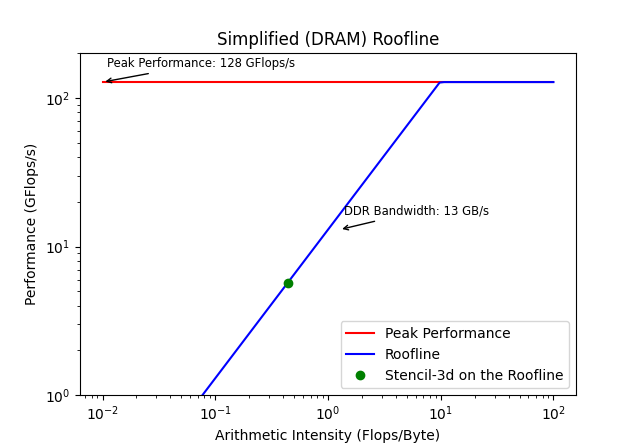
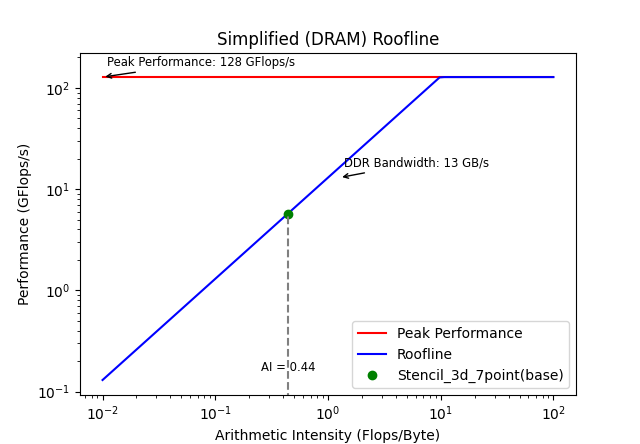
Update roofline

diff --git a/roofline/plot.py b/roofline/plot.py
@@ -16,14 +16,14 @@ roofline = np.minimum(ai * bw, peak_perf)
 # Define Performance bound
 perf_bound = np.ones_like(ai) * peak_perf
 
-# Plot the roofline
+# Plot the roofline and peak performance bound
 plt.plot(ai, perf_bound, label='Peak Performance', color='red')
 plt.plot(ai, roofline, label='Roofline', color='blue')
 
 # Mark the point in the roofline with AI = 0.44
-ai_p = 0.44
-perf = min(ai_p * bw, peak_perf)
-plt.plot(ai_p, perf, 'ro', label='Stencil-3d on the Roofline', color='green')
+ai_stencil = 0.44
+perf = min(ai_stencil * bw, peak_perf)
+plt.plot(ai_stencil, perf, 'ro', label='Stencil_3d_7point(base)', color='green')
 
 # Add label to roofline
 bw_label = 'DDR Bandwidth: {} GB/s'.format(bw)
@@ -37,6 +37,13 @@ plt.annotate(perf_bound_label, xy=(ai[0], peak_perf), xytext=(ai[1], peak_perf*1
              ha='left', va='bottom', fontsize='small',
              arrowprops=dict(arrowstyle='->'))
 
+# Connect point to x-axis with dotted line
+plt.plot([ai_stencil, ai_stencil], [0, perf], linestyle='--', color='gray')
+
+# Add text with x-axis value
+plt.text(ai_stencil, 0.2, 'AI = {}'.format(ai_stencil), ha='center', va='top',
+         fontsize='small')
+
 # Add labels and legend
 plt.xscale('log')
 plt.yscale('log')
@@ -46,7 +53,7 @@ plt.title('Simplified (DRAM) Roofline')
 plt.legend()
 
 # Set the limits of the y-axis
-plt.ylim(1, 200)
+plt.ylim(0, 220)
 
 # Show the plot
 plt.show()
